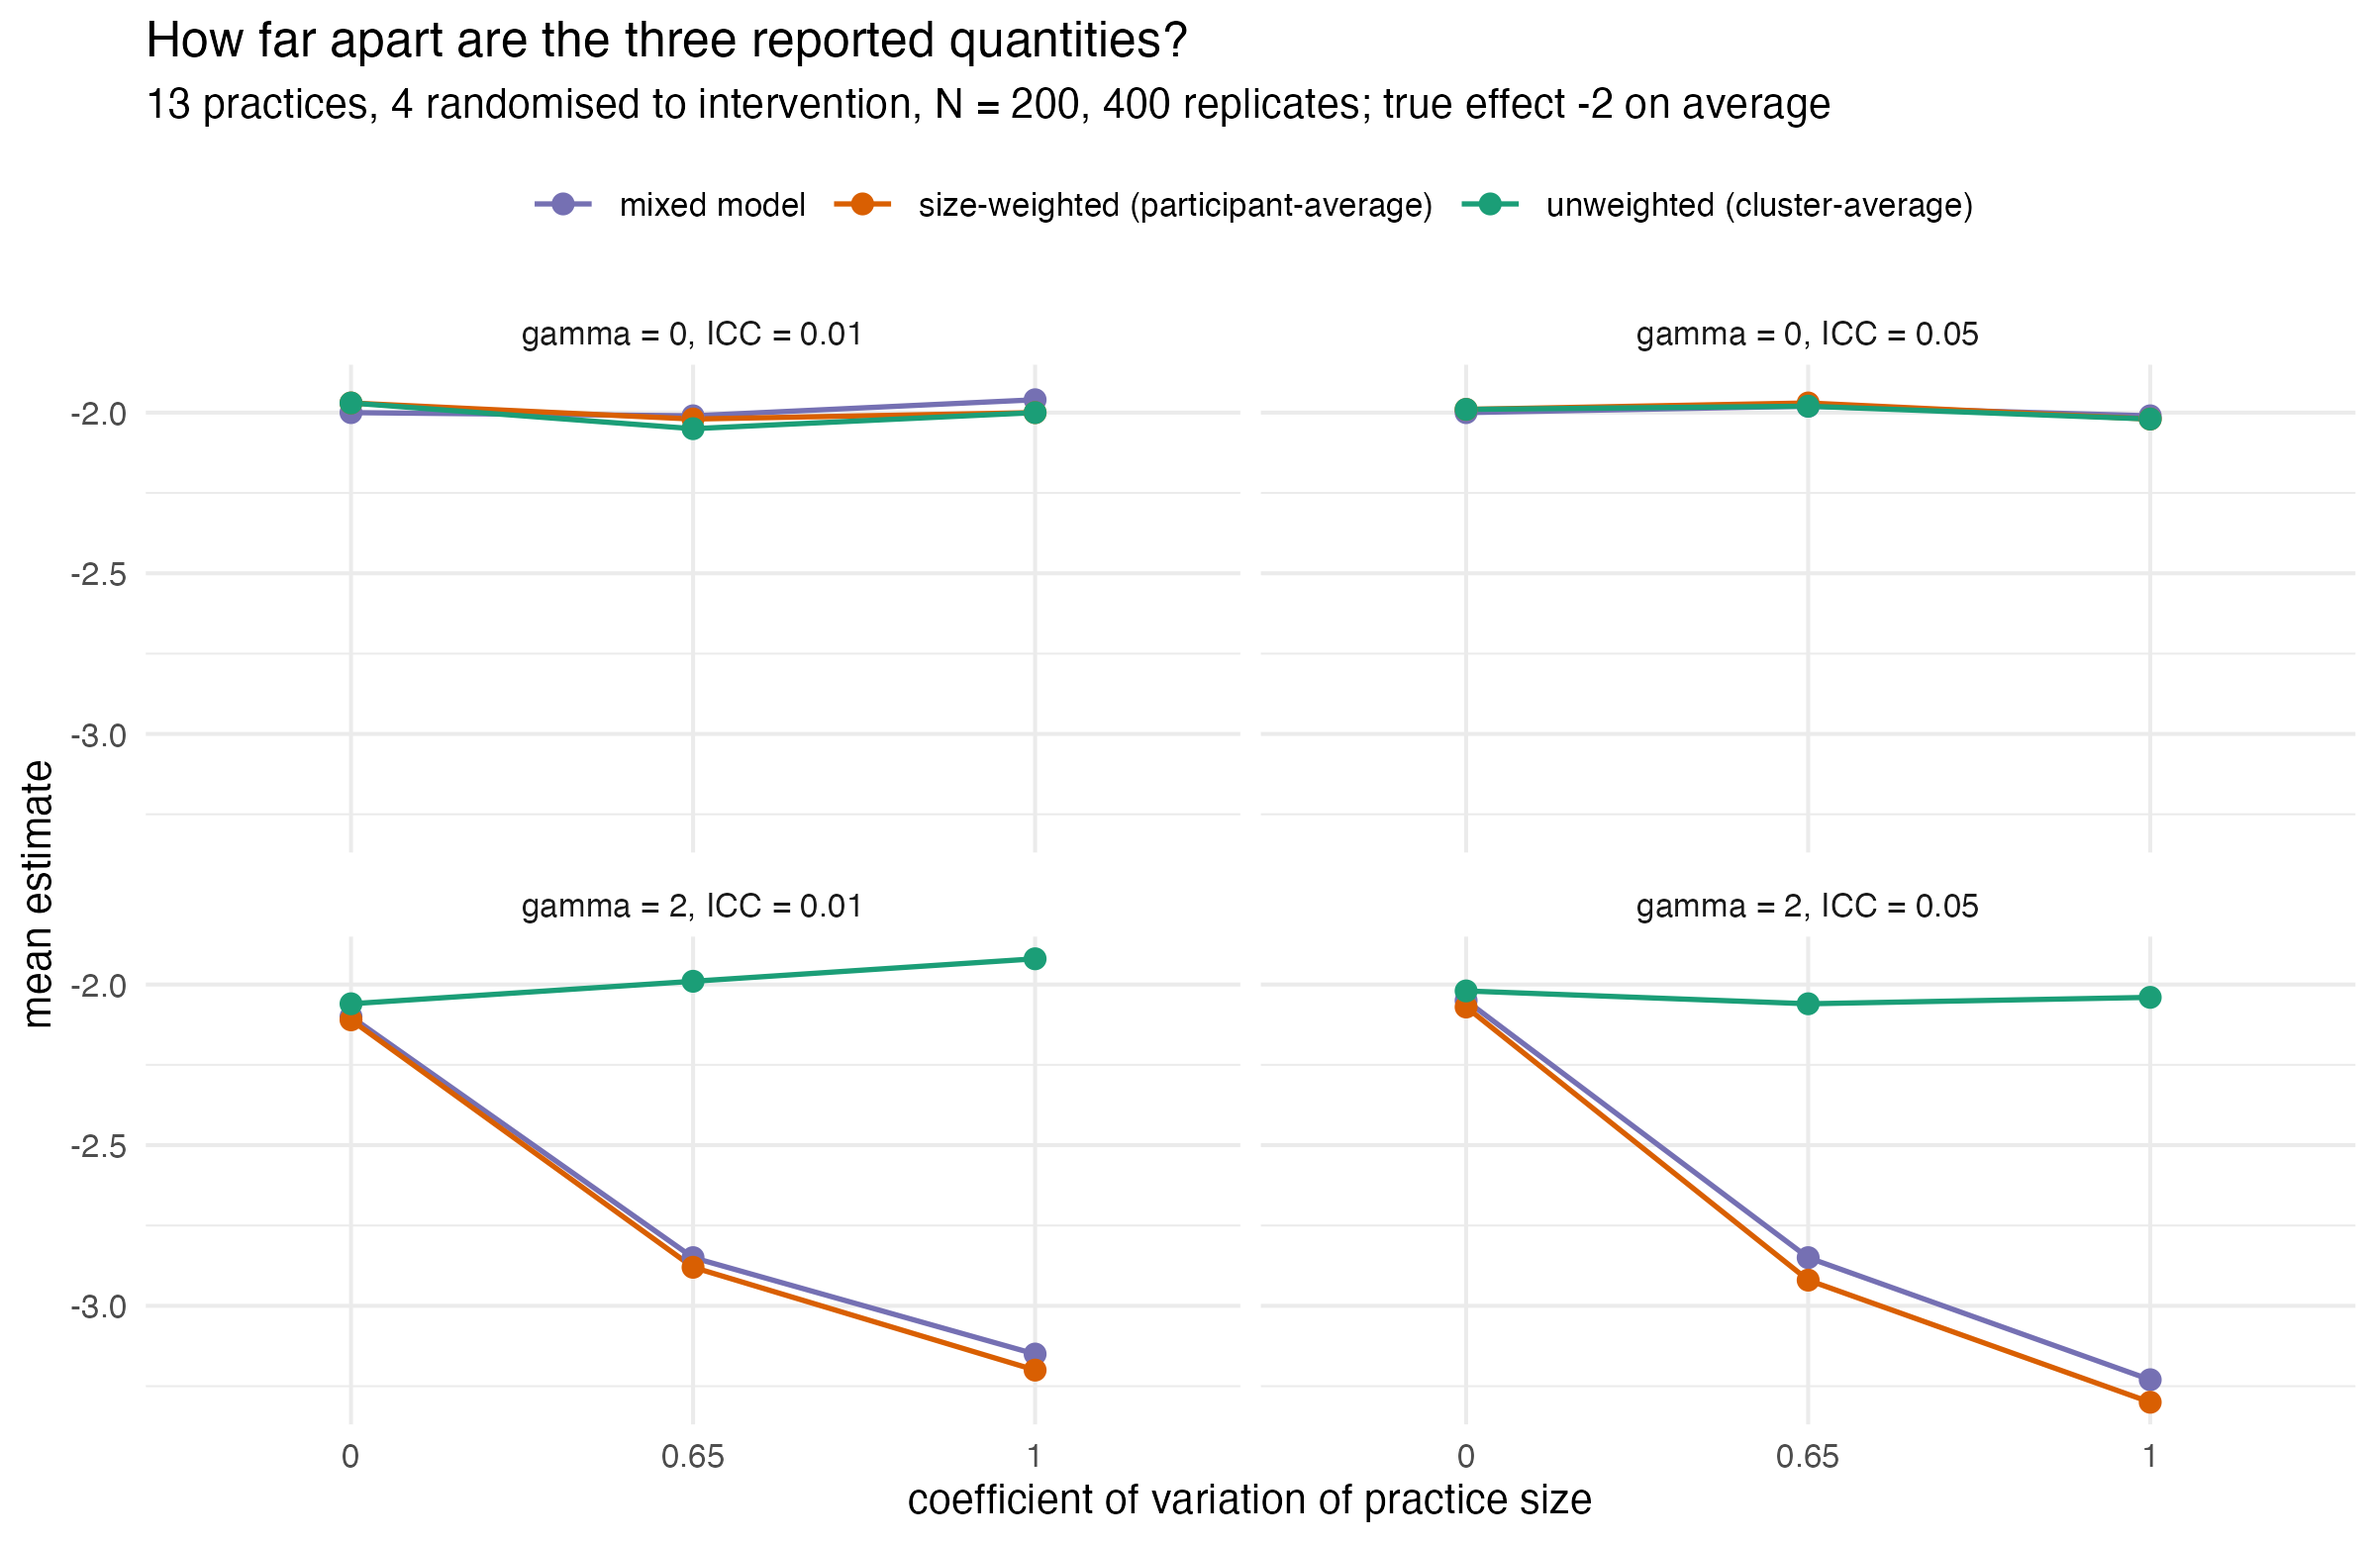
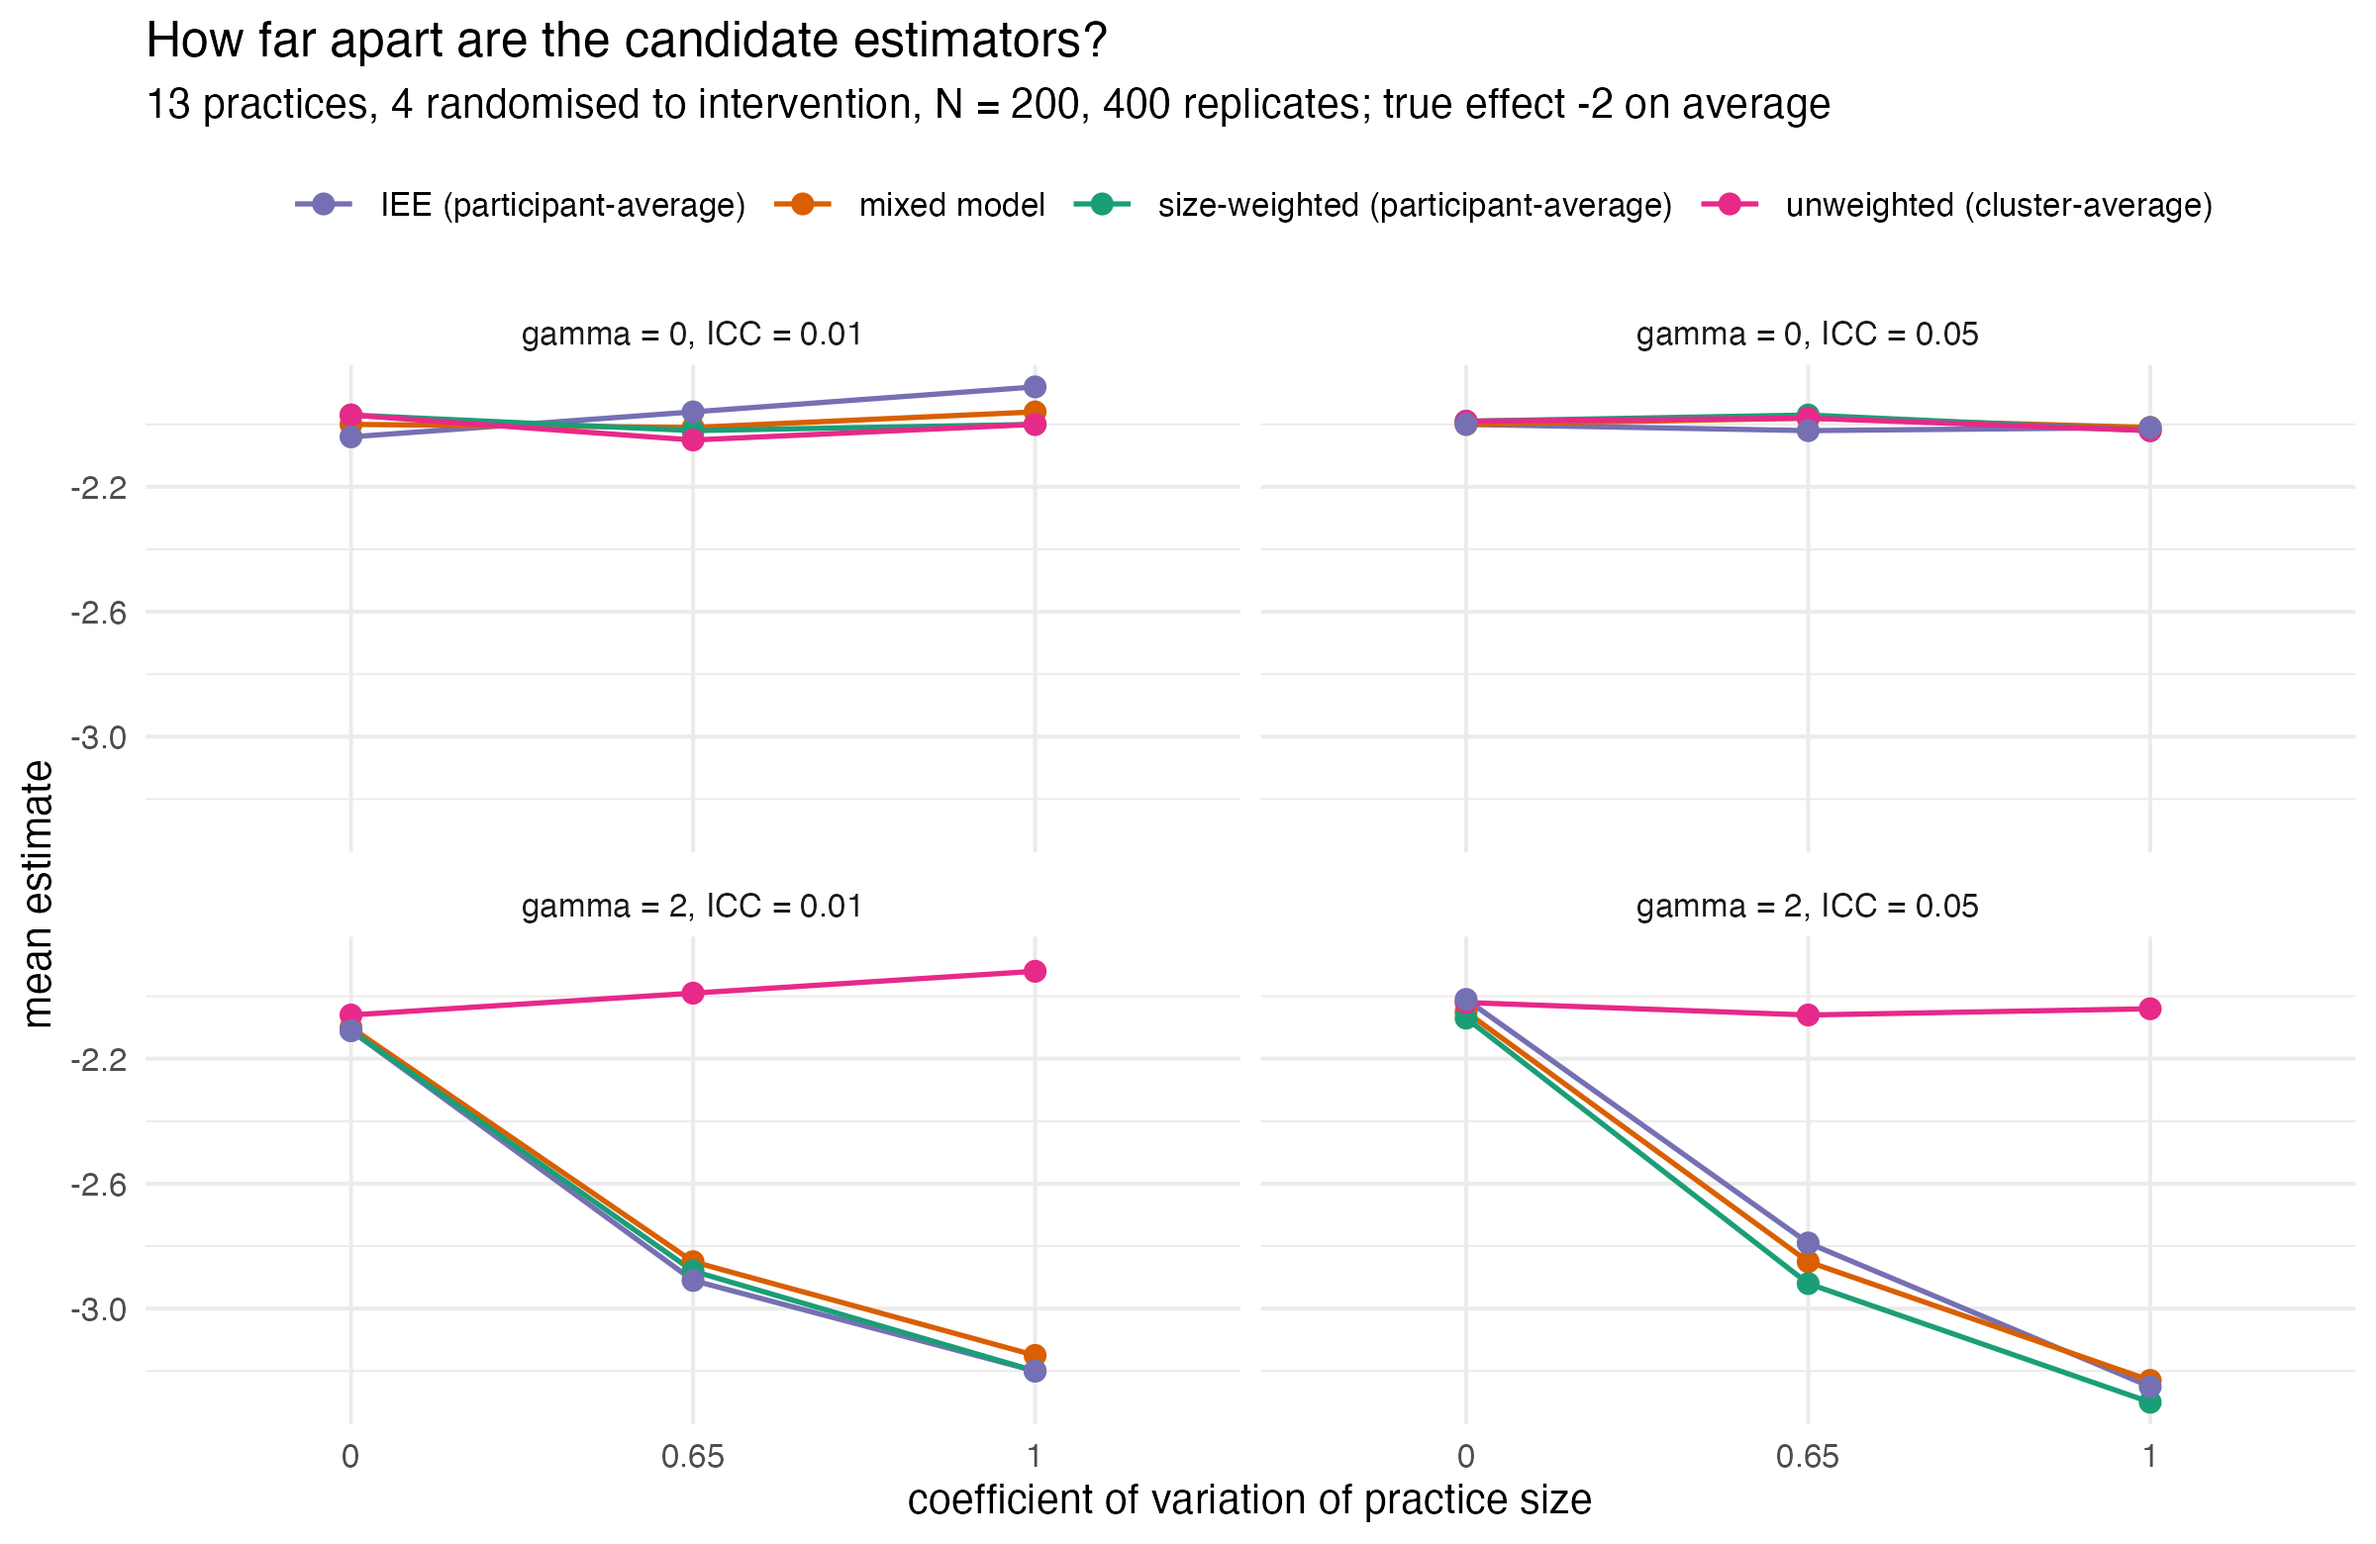
Add independence estimating equations to the estimator comparison

diff --git a/R/simulations/README.md b/R/simulations/README.md
@@ -22,7 +22,7 @@ Monte Carlo standard error and writes a figure to
 | Naive inference understates uncertainty at 13 practices (Small clusters) | 0.05 nominal | `05_small_sample_inference.R` |
 | **Finding, not a claim:** with a time-varying practice effect (ρc < 1) the rigid primary model inflates the type I error and KR does not repair it; the practice-by-time random effect (sensitivity analysis 6) restores the level with df near 11 | see script output | `05_small_sample_inference.R` |
 | ICC formula τ²/(τ²+ν²+σ²) is the right one for model (2) (Intra-cluster correlation) | unbiased | `06_icc_and_change_penalty.R` |
-| **Internal question, no paper claim:** how far can the three numbers of Table 4 diverge? With a constant treatment effect all three agree to within Monte Carlo error at any practice-size variation and ICC. They separate only when the effect varies with practice size; the unweighted summary then tracks the cluster-average and the other two the participant-average | see script output | `07_estimand_divergence.R` |
+| **Internal question, no paper claim:** how far can the reported numbers diverge? With a constant treatment effect all four candidates agree to within Monte Carlo error at any practice-size variation and ICC. They separate only when the effect varies with practice size; the unweighted summary then tracks the cluster-average and the others the participant-average. Independence estimating equations, the individual-level estimator Kahan et al. recommend, match the size-weighted summary in bias but are noisier here, and their cluster-robust standard error understates the true spread with 13 practices | see script output | `07_estimand_divergence.R` |
 | Constrained model matches baseline-adjusted precision (The model) | SE ratio | `06_icc_and_change_penalty.R` and `R/equivalence_constrained_vs_ancova.R` |
 
 Data-based statements (the Australian SDs, the correlation r ≈ 0.5, the
